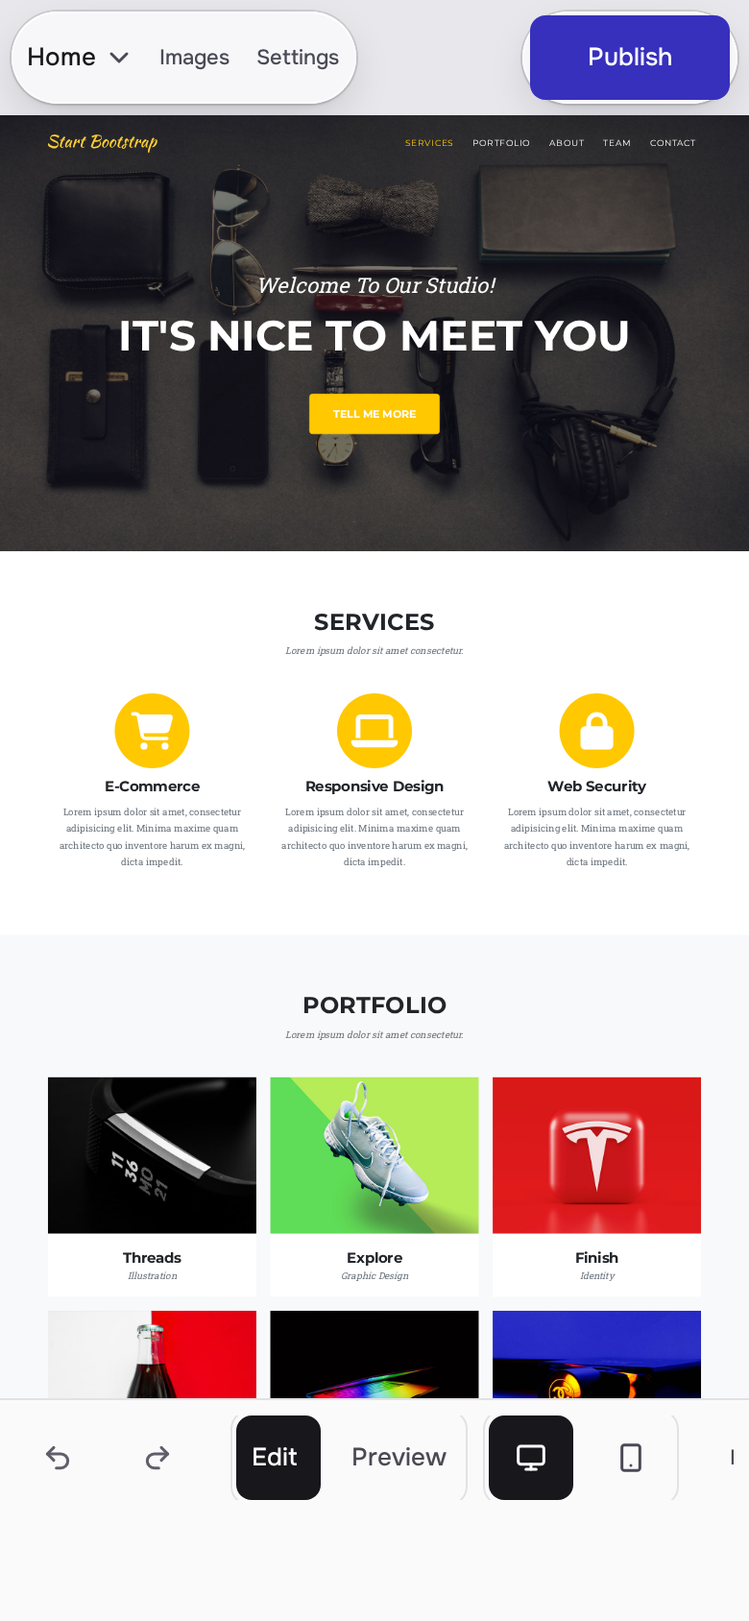
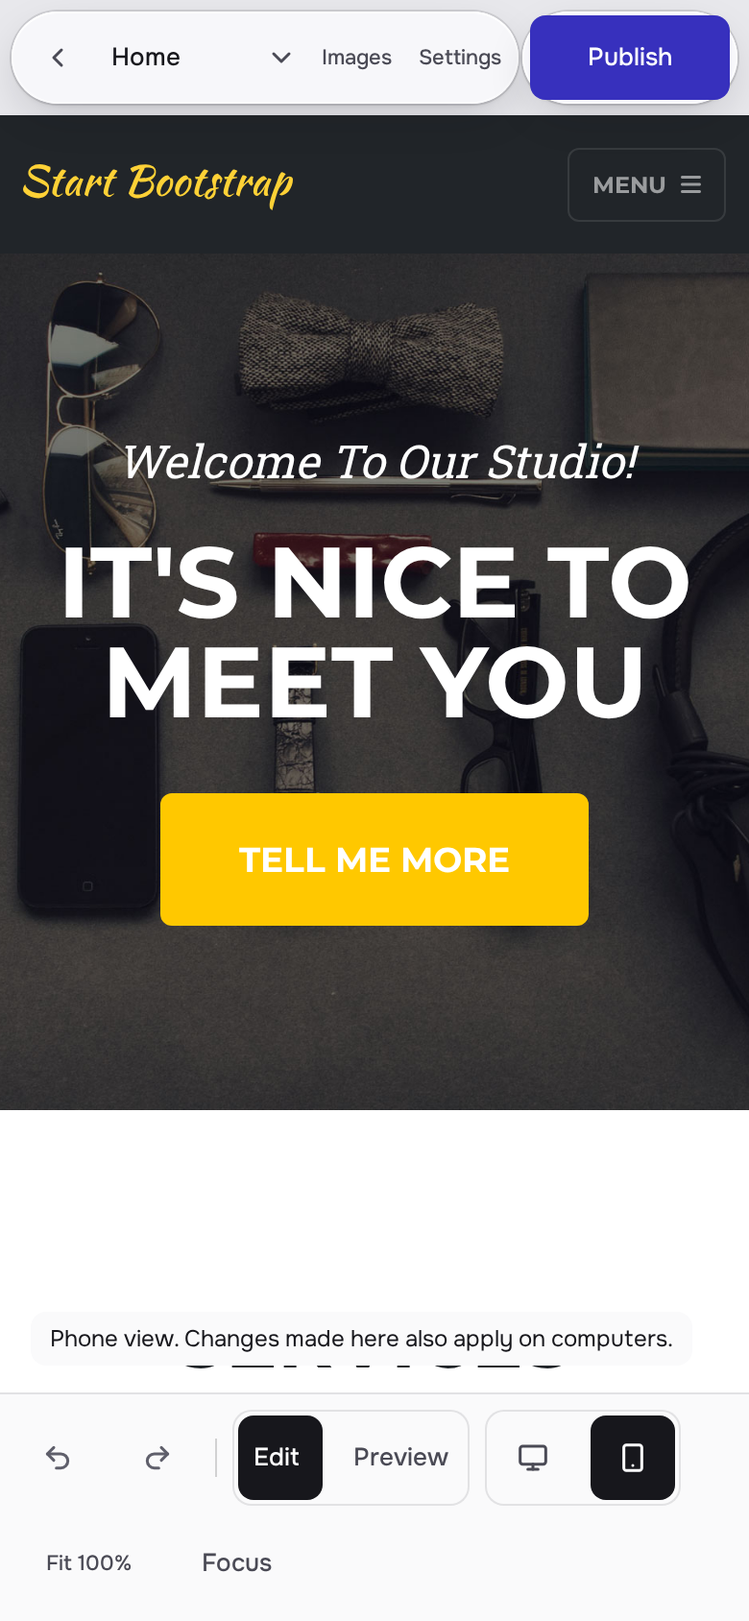
docs(studio): re-verification after the fix round, before and after comparison

diff --git a/docs/studio/evaluation/README.md b/docs/studio/evaluation/README.md
@@ -1,5 +1,129 @@
 # Studio evaluation: Phases G and H
 
+## After the fix round
+
+This section rechecks the editor after the fix round merged in `8193d76` (commits `cfd7dd2` and `4e8d242`). It ran on `main` against `http://127.0.0.1:5150` on 2026-10-20. Everything below this section is the original record, left as it was.
+
+No participants took part. Every result is an expert walkthrough by one agent in the T3 preview browser. Labels are as before: measured, observed, read, inferred.
+
+Test data. A fresh account (`studio-verify-h2@example.com`) imported `startbootstrap-agency.zip`, `northwind-studio.zip` and `landwind.zip` from `fixtures/zips`. Task 2 used `fixtures/images/replacement-hero.jpg` at 1280 and `replacement-banner.jpg` at 834.
+
+### Tasks at 1280 x 800
+
+The counting rule is the baseline's. Agency was used for every task except 4 and 5, which ran on Northwind.
+
+| # | Task | Baseline | Before the fixes | Now (pointer) | Now (keyboard) | Did it land | Notes |
+|---|---|---|---|---|---|---|---|
+| 1 | Edit the homepage heading | 4 | 4 | **4**: click, click again, type, Enter (observed) | **6**: Ctrl+K, type "main heading", Enter, Enter, type, Enter. Was 8 (observed) | Yes. curl of the live host returned "Hello from the verifier after fixes" (measured) | While typing, the caption reads "Heading · Editing" and sits above the heading at y 344 to 384. The heading starts at y 392 (measured). It clips the lower edge of the line above, "Welcome To Our Studio!" (observed, `editor-editing-1280.png`). The announcer named the new text after Enter (observed) |
+| 2 | Replace the hero image | 3 | 3 | **3**: click the banner, Change background photo, choose file (observed) | Not walked | Yes. The live file `images/uploads/b82e0e8e45bd0c4c.jpg` has the same SHA-256 prefix as the upload (measured) | The banner caption is pinned at y 756 to 796, clear of the site nav at y 52 to 146 (measured) |
+| 3 | Change a button's destination | 4 | 6, dead end | **4**: click "Tell me more", Link, choose Contact Us, Save link (observed) | Not walked | Yes. Live `href="#contact"` (measured) | The popover opened at y 372 to 669. Save link was at y 627 to 657 and was clicked by pointer (measured). It covers the button it edits (observed, `editor-link-popover-1280.png`) |
+| 4 | Switch page (Northwind) | 2 | 2 | **2**: page switcher, The studio (observed) | Not walked | Yes, `about.html` loaded (measured) | The switcher shows "The studio" without truncation. The site name is hidden at every width now (measured, `display: none`) |
+| 5 | Rename the website | 3 (+1) | 3 (+1) | **3** (+1 close): Settings, type the name, Save (observed) | Not walked | Yes. Toast "Website settings saved" (observed) | The switcher kept "The studio" and its name became "Switch page: Northwind Verified / The studio" (measured) |
+| 6 | Preview the mobile version | 1 | 1 | **1**: Phone screen (observed) | Not walked | Yes, Fit 81% (measured) | None |
+| 7 | Publish a change | 2 | 2 | **2**: Publish, Publish (observed) | **2**: Ctrl+Shift+P, Enter. Was 5 (observed). Focus started on the confirm button (measured) | Yes. Versions 1 and 2 went live (measured with curl) | The review listed "Home: Text change" on the second publish (observed) |
+| 8 | Restore a previous version | 3 (+1) | 4 | **4**: Publish, Version history, Publish again, Publish version 1 (observed) | Not walked. Ctrl+Shift+H opens the history with focus on its close button (measured) | Yes. curl returned version 1's heading (measured) | The pill read "Visitors see version 1" at once, with no reload (measured). Focus fell to `BODY` after the confirm closed (measured) |
+
+### Tasks at 834 x 1112
+
+| # | Now (834) | Did it land | Drift of the global controls |
+|---|---|---|---|
+| 1 | 4: click, click again, type, Enter (observed) | Yes, "Undo: text change", then undone (observed) | **52 px** while selected. See below |
+| 2 | 3: banner, Change background photo in the bottom bar, choose file (observed) | Yes. Live upload `1786cc6a0e174518.jpg` matches `replacement-banner.jpg` (measured) | **52 px** while selected |
+| 3 | 4: button, Link in the bottom bar, choose About, Save link (observed) | Yes. Live `href="#about"` in version 3 (measured) | **52 px** while selected. The Link sheet sat at y 632 to 985, above the bar (measured) |
+| 4 | 2: page switcher, The studio (observed) | Yes, `about.html` (measured) | **0 px**. Was 44 px (measured) |
+| 5 | 3 (+1 close) (observed) | Yes (measured from the switcher's name) | 0 px |
+| 6 | 1 (observed) | Yes, Fit 100% (measured) | 0 px |
+| 7 | 2 (observed) | Yes, version 3 (measured) | 0 px |
+| 8 | 4 (observed) | Yes. Version 2 live again, `href="#contact"` (measured) | 0 px. Focus fell to `BODY` again (measured) |
+
+### Measurements at rest
+
+Method. A fresh navigation to the Agency editor, then the same computations as `/tmp/eval/wrap.js` around `scripts/studio/measure.js`. The script was condensed to the fields reported here. It waits for `[data-canvas-frame]` to lose `is-loading`, then 500 ms. Times are milliseconds from navigation start. All values are measured.
+
+| Viewport | canvasShare: before fixes → now | Layout shift: before fixes → now | Runs | DCL | bootstrapEnd | iframeDocEnd | DOM nodes | Chrome over canvas |
+|---|---|---|---|---|---|---|---|---|
+| 1280 x 800 | 0.935 → **0.935** | 0 → **0** | 1 | 185 | 229 | 615 | 386 | 0 px |
+| 1024 x 768 | 0.932 → **0.932** | 0 → **0** | 1 | 202 | 233 | 416 | 386 | 0 px |
+| 834 x 1112 | 0.842 → **0.886** | 0 → **0.0391** | 2, both 0.0391 | 208 | 246 | 411 | 386 | 0 px |
+| 390 x 844 | 0.791 → **0.788** | 0.0001 → **0.0107** | 1 | 203 | 238 | 394 | 386 | 0 px |
+
+What explains them:
+
+- 1280 and 1024 are unchanged. The 52 px band is still the only limit (1280 x 748 / 1280 x 800 = 0.935).
+- At 834 the share rose because the bottom bar is now 67 px at rest instead of a fixed 116 px. 834 x 985 / (834 x 1112) = 0.886 (measured).
+- At 390 the bar is 119 px at rest, so the canvas is 665 px tall. 390 x 665 / (390 x 844) = 0.788 (measured).
+- **Layout shift came back below 900 px.** The shift entries name `DIV.studio-bottom`, `DIV.canvas-frame` and the iframe. At 834 the canvas frame is first 936 px tall, then 985 px (measured from the entries' rects). `.ed-main` reserves `var(--studio-bottom-height, 116px)` in CSS. The real height (67 px) arrives only when a `ResizeObserver` in `topbar.ts` writes the variable after the script runs (read). The 0.0391 is that 49 px jump.
+- DOM nodes rose from 375 to 386 (measured). The two new shortcut rows add 2 `dt`, 2 `dd` and 6 `kbd` spans, and the settings footer adds 1. That makes 11 (inferred from the diff in `editor.html`).
+- Load times are single runs on one machine. iframeDocEnd at 1280 (615) is above the earlier range of 364 to 416. It is one unrepeated run with no profile, so I cannot name its limiter, and I claim no change in load time.
+- Selection latency and heap were not re-measured.
+
+### Zero drift
+
+Method as before. The 17 rects of the three islands and their buttons were logged at rest and after each task. All values are measured.
+
+| Width | Tasks | Result |
+|---|---|---|
+| 1280 | 1 to 8 | **0 px** on all 17 rects in every task |
+| 834 | 4, 5, 6, 7, 8 | **0 px**. Task 4 was the failing case before |
+| 834 | 1, 2, 3 | **Fails while something is selected.** The center island and its 8 buttons move up 52 px (Undo y 1057 → 1005). They return to their rest position on deselect |
+| 390 | 1 (spot check) | **Fails.** Undo sits at y 737 at rest, 633 with the heading selected and 685 while editing |
+
+Cause (read). The fix made `.studio-bottom` `height: auto` with wrapping rows in `editor.css`. The caption's actions join the bar when something is selected, so the bar grows and pushes the tools row up. Decision 2 asks for zero drift.
+
+### The five worst, rechecked
+
+| # | Problem | Status | Evidence |
+|---|---|---|---|
+| 1 | Link popover off screen | **Fixed** | Popover y 372 to 669, Save link y 627 to 657, focused field y 513 to 543, all inside 800 px. No inner scroll (measured) |
+| 2 | Caption covers typed text | **Fixed** | Caption above the heading while editing at 1280 and 834. Label "Editing" (measured) |
+| 3 | Phone opens at 30 % with tools off screen | **Fixed** | Phone layout at Fit 100%. Every control inside 390 x 844, at rest and with the heading selected. Back link visible (measured). New side effects are listed below |
+| 4 | Caption focus order | **Fixed** | Tab lands on Edit text. ArrowRight walks the visual order and wraps (measured) |
+| 5 | Longer keyboard routes, lost shortcuts | **Partly fixed** | Ctrl+Shift+P and Ctrl+Shift+H work and are in the sheet. Publish is 2 keys again. The heading edit is 6 keys against the baseline's 4 (measured) |
+
+### Lesser items the fix round claimed
+
+| Item | Status | Evidence |
+|---|---|---|
+| Stale announcer | **Fixed** | After Enter it said "Heading selected: Hello from the verifier after fixes" at 1280, and named the new text at 834 (observed). Text saves still raise no toast (observed) |
+| Island drift at 834 on page switch | **Fixed** | 0 px. The left island is a fixed 370 px (measured) |
+| Switcher truncation at 1024 and 1280 | **Fixed, with a trade-off** | Page names show in full. The site name is now hidden at every width and appears only in the button's name, its tooltip and the tab title (measured) |
+| Pill stale after rollback | **Fixed** | "Visitors see version 1" at once (measured) |
+| Count gone after reload | **Not fixed** | After a reload with unpublished edits the button read "Publish" (observed, twice). It still counts the session-only `s.changes` list, and the fix commits do not touch it (read, `topbar.ts`) |
+| Shortcut rows | **Fixed** | The sheet lists Ctrl Shift P and Ctrl Shift H (measured) |
+| Rename label | **Fixed** | "The studio" after renaming Northwind (measured) |
+| Start here leaves the pages popover open | **Fixed** | No popover open and `aria-expanded="false"` after "Change the main heading" (measured) |
+| Palette focus | **Fixed** | Focus went to the canvas after a command ran (measured) |
+| Loading chrome | **Fixed** | The server HTML ships "Loading…" in the pill (read from the served page) |
+| Banner caption over the nav | **Fixed** | Pinned at y 756 to 796 at 1280 (measured). The Landwind half was not rechecked |
+
+### Found after the fix round
+
+1. **Global controls drift on selection below 900 px (decision 2).** At 834 the tools row moves 52 px whenever something is selected. At 390 it moves 104 px, and again during a text session (measured). The canvas resizes with it.
+2. **Layout shift is back below 900 px.** 0.0391 at 834 (n=2) and 0.0107 at 390 (measured). The CSS fallback of 116 px is replaced by the measured bar height after the script runs (read).
+3. **Panels can cover the top islands.** `surfaces.ts` now places panels against the whole window instead of the canvas (read). At 1280 x 640 the Style panel on "Tell me more" ran from y 8 to 472 over the center island. The element at (640, 30) was the panel head (measured).
+4. **A flipped panel covers its own selection.** When the panel flips above the caption, it lands on the selected element. The Link popover and the Style panel both covered "Tell me more" (observed).
+5. **Focus falls to the page body after a rollback.** After "Publish version 1" closed its confirm, `document.activeElement` was `BODY` while the publish popover stayed open. This happened at 1280 and 834 (measured). The before record did not check this. The `renderReview` change in `publish.ts` refocuses an element that is replaced during the same render (inferred from the diff).
+6. **The phone bottom bar grows to a third of the screen.** With the heading selected it is 223 px. With the button selected it is 275 px of 844. The canvas shrinks to 509 px (measured).
+7. **The editing caption clips the line above.** At 1280 it covers the lower edge of "Welcome To Our Studio!" (observed). This is minor next to the problem it replaced.
+8. **The site name left the editor chrome.** This is the cost of the truncation fix. An owner with several sites sees only the page name (observed).
+
+Also seen, and possibly older than the fix round: the canvas's spoken name uses the raw title "Your page: The studio | Northwind Studio" (measured). "Area · Saved" is still the caption for an unnamed container (observed).
+
+### Screenshots retaken
+
+Overwritten in `../final/screens/`: `editor-editing-1280`, `editor-editing-834`, `editor-heading-selected-390`, `editor-resting-390`, `editor-heading-selected-834`, `editor-heading-selected-1280`, `editor-page-switcher-1280`, `editor-palette-1280`, `editor-heading-selected-1024` and `editor-resting-1024`. New: `editor-link-popover-1280`. The palette shot shows the query "main heading" and the new command.
+
+### Limits of this recheck
+
+- No participants. One walkthrough per task.
+- Single cold loads except 834 (n=2). No coarse-pointer, media-feature or screen-reader runs this time.
+- Tasks 2 to 6 and 8 were not walked by keyboard. The 1024 and 390 drift checks were spot checks, not all eight tasks.
+- The Agency heading was changed several times during the run, so later screenshots show "Version two heading".
+
+---
+
+## Original record
+
 This is the "after" record for the Studio redesign. It repeats the methods in `../baseline/README.md` on `main` at commit `0c6a3aa`, against the dev server at `http://127.0.0.1:5150`, on 2026-10-20. The ranked problems are in `five-worst.md`. Screenshots are in `../final/screens/`.
 
 No participants took part. Every task result below is an expert walkthrough by one agent in an automated browser. Discoverability notes are judgments and hypotheses, not user data.

diff --git a/docs/studio/evaluation/five-worst.md b/docs/studio/evaluation/five-worst.md
@@ -1,6 +1,6 @@
 # The five worst problems
 
-Ranked by user impact. Evidence and labels follow `README.md`: measured, observed, read, inferred. Each fix is the smallest change I can point to. None of them has been tried.
+Ranked by user impact. Evidence and labels follow `README.md`: measured, observed, read, inferred. Each fix is the smallest change I can point to. None of them has been tried. No participants took part. Each item is one evaluator's walkthrough. A status line under each item records the recheck after the fix round merged in `8193d76`.
 
 ## 1. The Link popover runs off screen, and Save link cannot be reached by pointer
 
@@ -8,6 +8,7 @@ Ranked by user impact. Evidence and labels follow `README.md`: measured, observe
 - **Reproduce.** 1280 x 800, Agency. Click "Tell me more" (y about 634). Click Link in the caption. The popover opens at y 725 with `max-height: 120px`. Scroll it to the end. Save link is still at y 803 to 833 (measured). Focus starts on a select at y 866 (measured). Tab, Tab, Enter is the only way to save (observed).
 - **Breaks.** WCAG 2.4.11 Focus Not Obscured (Minimum). Decision 4 (properties in live popovers anchored to the element or the dock). Task 3 completion.
 - **Smallest fix.** `frontend/editor/surfaces.ts` `placePanel()`, lines 430 to 437. It floors `maxHeight` at 120 px and always places the panel on the caption's far side. Measure the room on both sides first. When the far side has less room than the panel's natural height, place the panel on the near side, above the caption. Then clamp `top` so that `top + height <= innerHeight - 8`. The pure helper `placePanel` in `frontend/editor/placement.ts` lines 76 to 83 can take the room as an input, so `placement.test` can cover it.
+- **Status after the fix round: fixed.** At 1280 x 800 the popover opened at y 372 to 669. Save link sat at y 627 to 657 and was clicked by pointer. The focused field sat at y 513 to 543 (measured). Task 3 took 4 actions. A new side effect is that the panel now covers the selected button, and a tall panel on a short window covers the top islands (see `README.md`, Found after the fix round).
 
 ## 2. The caption covers the text being typed
 
@@ -15,6 +16,7 @@ Ranked by user impact. Evidence and labels follow `README.md`: measured, observe
 - **Reproduce.** 1280 x 800, Agency. Click the heading, click again, type "Hello from the evaluator". The heading wraps to two lines. The caption stays at its original y and covers the start of the second line (observed, `../final/screens/editor-editing-1280.png`). The same caption reads "Saved" while nothing has been saved (observed).
 - **Breaks.** Decision 3 as intended ("never moved while typing" was meant to keep it stable, not to put it over the text). Decision 6, because the label claims a save that has not happened. WCAG 2.4.11 when the caret sits under the caption (inferred).
 - **Smallest fix.** `frontend/editor/toolbar.ts` `position()`, line 375, returns early for the whole text session. Keep it frozen, but when the session starts, place the caption above the element if there is room, since text grows downward. Or let it flip once if the element's rect starts to intersect it. For the label, line 345: show "Editing" while `s.editing.active`.
+- **Status after the fix round: fixed.** While typing, the caption sits above the heading at y 344 to 384, and the heading starts at y 392 (measured at 1280). The same holds at 834 and 390 (measured). The label reads "Heading · Editing" (observed). The caption now clips the lower edge of the line above (observed, `../final/screens/editor-editing-1280.png`).
 
 ## 3. On a phone the canvas opens at 30 % and half the tools sit off screen
 
@@ -22,6 +24,7 @@ Ranked by user impact. Evidence and labels follow `README.md`: measured, observe
 - **Reproduce.** 390 x 844, Agency. The zoom reads "Fit 30%" with `device: desktop`. The tools row is 482 px wide in 374 px and hides Zoom and Focus. Select the heading. The action row is 582 px wide in 374 px and hides Background and More, which holds every section action. Nothing shows that the rows scroll. The Back link is `display: none` (measured, `../final/screens/editor-heading-selected-390.png`).
 - **Breaks.** Decision 8. Decision 1 (each route keeps a visible control). WCAG 1.4.10 Reflow for the toolbar content (inferred).
 - **Smallest fix.** `frontend/editor/state.ts` line 149: start with `device: "mobile"` when `matchMedia("(max-width: 599px)")` matches. In `assets/static/css/editor.css` lines 406 and 409, let `.studio-bottom .ed-top-center` and `.ftb-row` wrap at phone width, or move Zoom and Focus into the palette there. Keep the Back link visible in the left island.
+- **Status after the fix round: fixed.** At 390 x 844 the editor opens on the phone layout at Fit 100%. Every control is inside the viewport at rest and with the heading selected. The Back link is visible (measured, `../final/screens/editor-heading-selected-390.png`). New side effects: the bottom bar grows to 223 to 275 px with a selection, the tools row moves by up to 104 px, and load shows a layout shift of 0.0107 (measured).
 
 ## 4. Caption keyboard focus does not follow the visual order
 
@@ -29,6 +32,7 @@ Ranked by user impact. Evidence and labels follow `README.md`: measured, observe
 - **Reproduce.** 1280, Agency. Select the heading with the keyboard. Edit and finish it, then Tab from the canvas. Focus lands on "Background", and ArrowRight goes to More and then to "Edit text" at the far left (observed). The DOM order was "Background, More, Edit text, Style, Change banner photo" while the screen showed "Edit text, Style, Change banner photo, Background, More" (measured).
 - **Breaks.** WCAG 2.4.3 Focus Order. WCAG 1.3.2 Meaningful Sequence.
 - **Smallest fix.** `frontend/editor/toolbar.ts` line 365. Kept buttons get `style.order` while `buttons()` and the roving tabindex follow DOM order. Replace `kept.style.order = String(order)` with `actionHost.append(kept)` inside the same loop. Appending moves the node, so DOM order then matches the visual order and focus stays on the same element.
+- **Status after the fix round: fixed.** After a keyboard edit, Tab from the canvas landed on "Edit text". ArrowRight walked Style, Change banner photo, Background, More and wrapped to Edit text (measured). The DOM order matched the visual order for the heading and for the button selected after it (measured).
 
 ## 5. Keyboard routes got longer, and two inventory shortcuts were removed
 
@@ -36,24 +40,42 @@ Ranked by user impact. Evidence and labels follow `README.md`: measured, observe
 - **Reproduce.** Press Ctrl+Shift+P or Ctrl+Shift+H in the editor. Nothing happens. `wireKeys` in `frontend/editor/main.ts` handles F6, Ctrl+S, Ctrl+., Ctrl+K, Ctrl+Z/Y, ? and Escape only (read). The shortcut sheet no longer lists them (read, `assets/views/projects/editor.html`). Start here moved into the page switcher popover, so reaching "Change the main heading" takes Enter and three Shift+Tab presses (observed).
 - **Breaks.** The feature inventory the redesign had to keep (`../baseline/README.md` section 5.9 lists `Ctrl+Shift+P` and `Ctrl+Shift+H`). Decision 11 adds the palette as a route, not a replacement. WCAG 2.1.1 is still met, so this is efficiency, not access.
 - **Smallest fix.** In `frontend/editor/main.ts` `wireKeys`, before the `isTyping` check, add `mod && event.shiftKey && key === "p"` to call `publishing.openReview(...)` and `key === "h"` to call `publishing.openHistory(...)`. Restore both lines to the shortcut sheet in `editor.html`. Add palette commands "Change the main heading" and "Replace a picture" in `frontend/editor/topbar.ts` `commands()`.
+- **Status after the fix round: partly fixed.** Ctrl+Shift+P opens the review with focus on the confirm, so publishing takes 2 keys again. Ctrl+Shift+H opens version history. Both are in the shortcut sheet (measured). The palette has "Change the main heading", so the heading edit takes 6 keys, down from 8 but still above the baseline's 4 (measured).
 
 ## Lesser problems
 
 - **Stale selection announcer (WCAG 4.1.3).** After a text edit the live region still names the old text, and a text save raises no toast. `frontend/editor/main.ts` lines 218 to 229 key the announcement by element id (read). Announce when `s.editing` turns inactive (observed at 1280 and 834).
+  Status: fixed. The announcer named the new text after each edit at 1280 and 834 (observed). Text saves still raise no toast (observed).
 - **Island drift at 834 (decision 2).** Switching from Home to The studio widened the left island by 44 px and moved Images and Settings (measured). Give `.ed-page` a fixed width in `assets/static/css/editor.css` lines 396 to 402.
+  Status: fixed for this case. Home to The studio moved nothing (measured, 0 px). Selecting anything at 834 now moves the tools row 52 px (measured, see `README.md`).
 - **No warning when a new photo hides the text over it.** The white Agency heading vanished on a light photo (observed). This was already in the baseline.
 - **Truncated page switcher at 1024 and 1280.** "Age… / H…" at 1024, "Northwi… / The …" at 1280 after a page switch (observed). `.ed-site-name` is capped at 90 px and 48 px (read, `editor.css` lines 334 and 387).
+  Status: fixed, with a trade-off. Page names show in full. The site name is hidden at every width (measured).
 - **Pill goes stale after a rollback.** It kept "Published at 12:00 PM" until a reload showed "Visitors see version 1" (observed). The pill keeps `publicationFeedback` (read, `topbar.ts`).
+  Status: fixed. The pill read "Visitors see version 1" at once (measured).
 - **"Restore" and "Publish again" sit side by side.** "Restore" only changes the draft. The confirm text explains it, but the first click is likely the wrong one (inferred).
+  Status: not claimed by the fix round. Both buttons still sit side by side (observed).
 - **The banner caption docks over the site's logo and nav** (observed, task 2). **The heading caption covers the paragraph below on Landwind** (observed, `editor-landwind-heading-selected-1280.png`).
+  Status: fixed for Agency. The banner caption is pinned at y 756 to 796, clear of the nav (measured). Landwind was not rechecked.
 - **The link destination is no longer shown in words on the caption.** It now appears only in the tooltip (observed).
+  Status: not claimed by the fix round. Not rechecked.
 - **The pages popover stays open over the canvas** after Start here selects the heading, through the whole text edit (observed).
+  Status: fixed. No popover was open after Start here, and `aria-expanded` was false (measured).
 - **After the palette runs a command, focus goes to the page body** (observed).
+  Status: fixed. Focus went to the canvas (measured).
 - **The same action has two names.** "Change banner photo" and "Change background photo", with toasts "Banner photo changed" and "Background photo changed" (observed).
+  Status: not claimed by the fix round. "Change banner photo" and "Change background photo" both remain (observed).
 - **A tooltip lingered after a click** ("Choose a new photo for the background", observed). This was already in the baseline.
+  Status: not claimed by the fix round. Not rechecked.
 - **The unpublished change count vanishes on reload.** Publish reads "Publish" until the next edit (observed).
+  Status: not fixed. After a reload with unpublished edits the button read "Publish" (observed twice). The fix commits do not touch the count (read).
 - **"Keyboard shortcuts" sits under the General settings heading** as if it were a setting (observed).
+  Status: fixed. It moved to a footer outside the General section (read from the DOM).
 - **The page label keeps the old site name after a rename.** "The studio · Northwind Studio" (observed). `pageLabel` strips only the current name (read, `frontend/editor/pages.ts`).
+  Status: fixed. The label stayed "The studio" after a rename (measured).
 - **"Area selected" is the spoken name for an unnamed container** (observed).
+  Status: not claimed by the fix round. The caption still reads "Area · Saved" (observed at 390).
 - **The import success thumbnail shows a portfolio image, not the hero** (observed, `import-success-1280.png`).
+  Status: not claimed by the fix round. Not rechecked.
 - **On the landing page at 390, the mock island overlaps the mock site's own title** (observed, `landing-idle-390.png`).
+  Status: not claimed by the fix round. Not rechecked.

diff --git a/docs/studio/before-after.md b/docs/studio/before-after.md
@@ -1,0 +1,45 @@
+# Before and after
+
+Before is `main` before the Studio round (`baseline/screens/`). After is the built redesign (`final/screens/`). Both use the same Agency template, except where a row says otherwise.
+
+## Editor
+
+| Before | After |
+|---|---|
+| ![Editor at rest, before](baseline/screens/editor-home-1280.png) | ![Editor at rest, after](final/screens/editor-resting-1280.png) |
+| A 248 px sidebar holds pages, publishing, versions and the domain form. The site gets 67.7% of the window. | Three floating groups sit in a 52 px band above the site. The site gets 93.5% of the window. |
+| ![Heading selected, before](baseline/screens/editor-heading-selected-1280.png) | ![Heading selected, after](final/screens/editor-heading-selected-1280.png) |
+| A label chip and a separate icon toolbar. | One caption under the selection with the kind, the save state and worded actions. |
+| ![Editing, before](baseline/screens/editor-heading-editing-1280.png) | ![Editing, after](final/screens/editor-editing-1280.png) |
+| ![Page switcher, before](baseline/screens/editor-page-switcher-northwind-1280.png) | ![Page switcher, after](final/screens/editor-page-switcher-1280.png) |
+| ![Images, before](baseline/screens/editor-images-list-1280.png) | ![Images, after](final/screens/editor-images-1280.png) |
+| ![Settings, before](baseline/screens/editor-settings-1280.png) | ![Settings, after](final/screens/editor-settings-1280.png) |
+
+## Tablet and phone
+
+| Before | After |
+|---|---|
+| ![Tablet, before](baseline/screens/editor-heading-selected-834.png) | ![Tablet, after](final/screens/editor-heading-selected-834.png) |
+| The toolbar floats over the site, and the sidebar hides in a drawer. | The tools and the caption's actions share one opaque bottom bar with 44 px targets. |
+| ![Phone, before](baseline/screens/editor-manage-view-390.png) | ![Phone, after](final/screens/editor-resting-390.png) |
+| Phones get a Manage screen and cannot edit. | Phones open the editor in the phone screen size and can edit. |
+
+## Publishing and versions
+
+| Before | After |
+|---|---|
+| ![Publish review, before](baseline/screens/editor-publish-review-1280.png) | ![Publish review, after](final/screens/editor-publish-review-1280.png) |
+| ![Version history, before](baseline/screens/editor-version-history-1280.png) | ![Version history, after](final/screens/editor-publish-history-1280.png) |
+| Version history is a sidebar section. | Version history lives inside the publish popover. |
+
+## Dashboard, import and sign in
+
+| Before | After |
+|---|---|
+| ![Dashboard, before](baseline/screens/dashboard-1280.png) | ![Dashboard, after](final/screens/dashboard-sites-1280.png) |
+| ![Empty dashboard, before](baseline/screens/dashboard-empty-1280.png) | ![Empty dashboard, after](final/screens/dashboard-empty-1280.png) |
+| ![Import, before](baseline/screens/import-1280.png) | ![Import, after](final/screens/import-idle-1280.png) |
+| ![Import done, before](baseline/screens/import-done-1280.png) | ![Import done, after](final/screens/import-success-1280.png) |
+| ![Sign in, before](baseline/screens/signin-1280.png) | ![Sign in, after](final/screens/signin-idle-1280.png) |
+
+The refused source-only import, the landing page and the error pages have no baseline screenshot. Their after screenshots are `final/screens/import-refused-1280.png`, `landing-idle-1280.png` and `error-404-1280.png`, with 390 px versions beside them.
